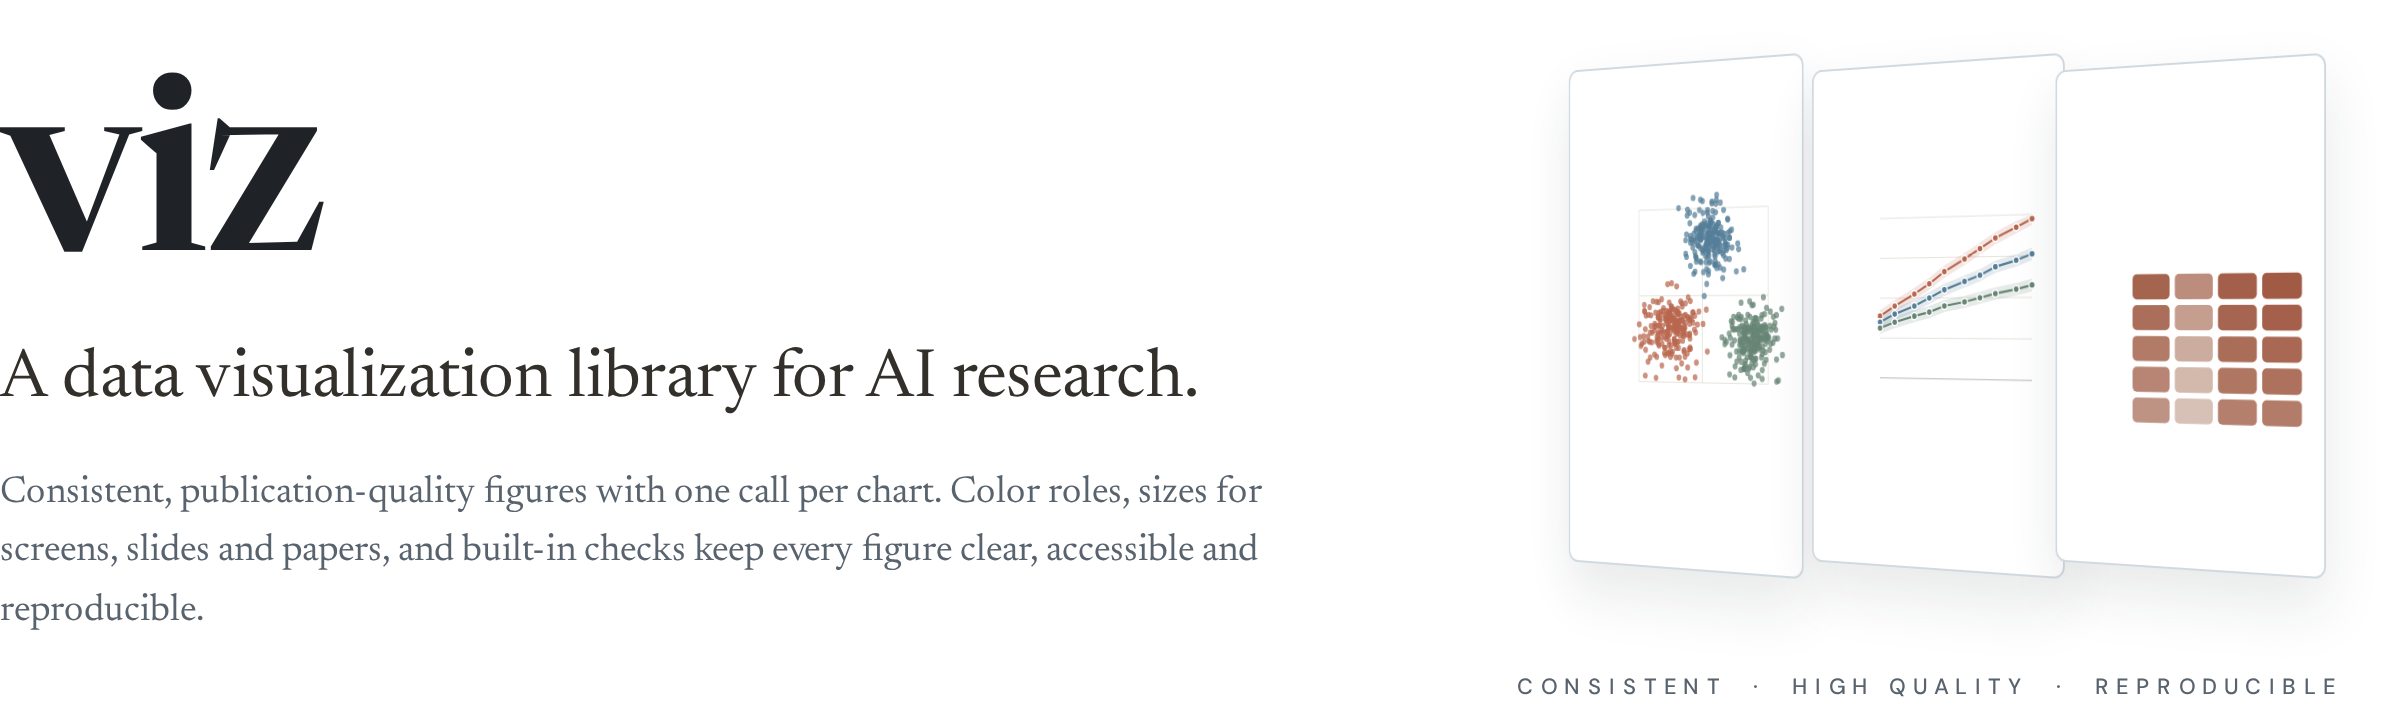
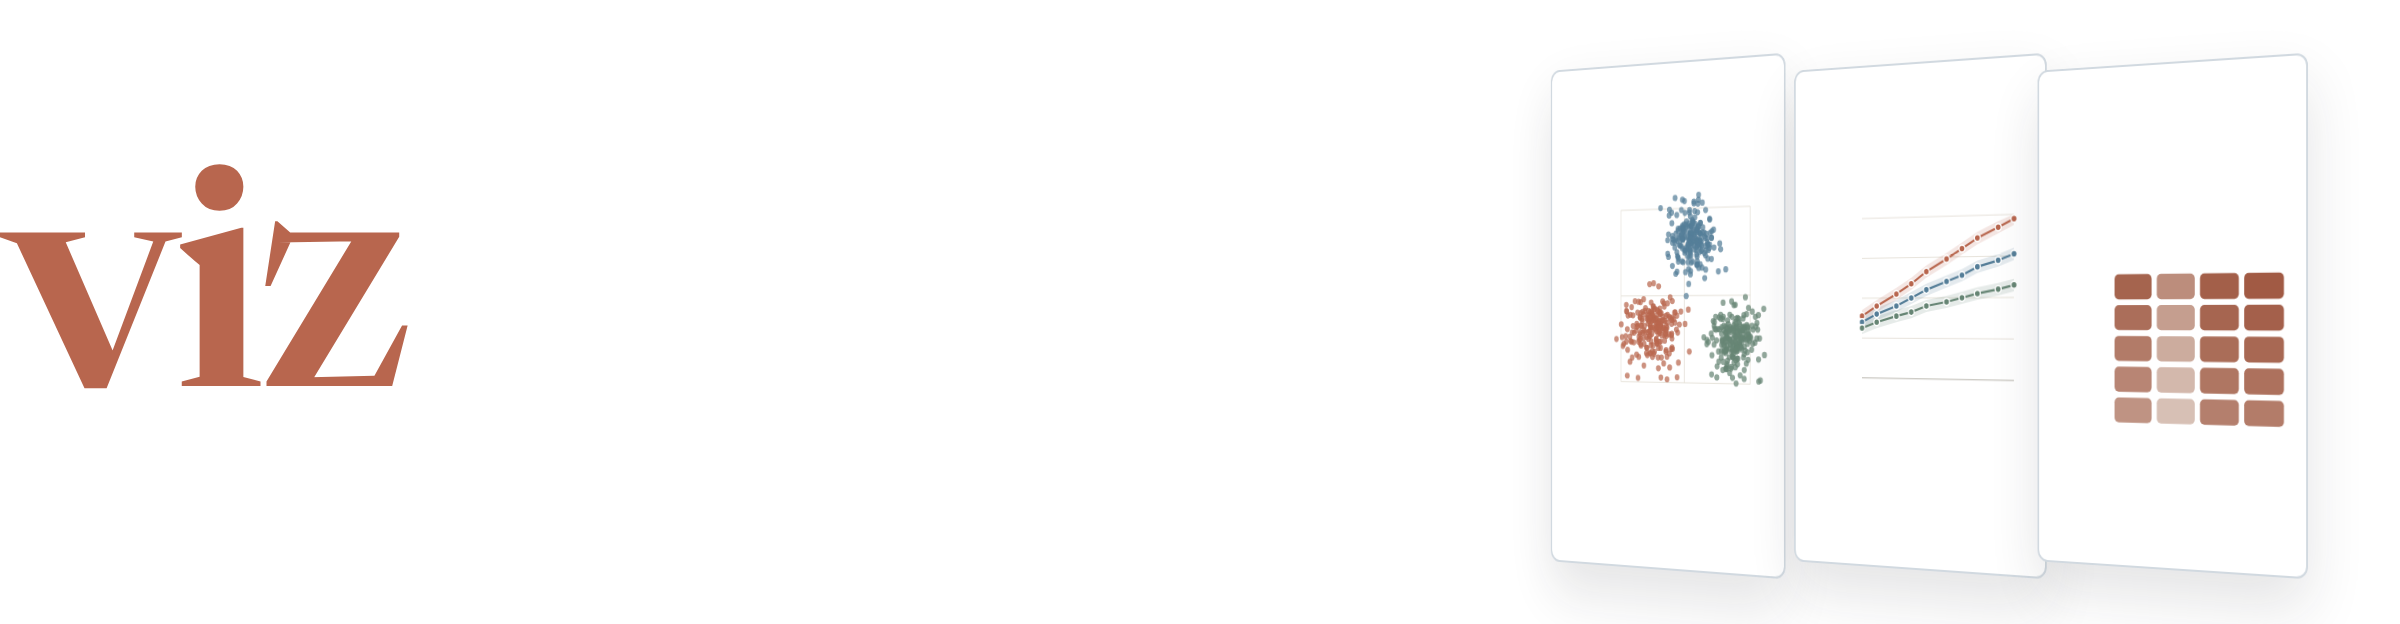
README header reads on light and dark pages without theme switching

diff --git a/docs/readme/build.py b/docs/readme/build.py
@@ -61,52 +61,31 @@ def examples(width: float, thumb: bool = False) -> dict[str, viz.Figure]:
 
 # ---------------------------------------------------------------------------------------------- page pieces
 
-# The figures stay white in both of GitHub's modes, on white cards; only the text, buttons and icons around them
-# change. Every image has a see-through background, and the ones with page text come in two copies: the README's
-# <picture> tags show the light copy on the white page and the copy in dark/ on the dark one (#0D1117). The colors
-# are GitHub's own text, border and button colors in each mode.
-THEMES = {
-    "light": {"ink": "#1F2328", "ink2": "#33302B", "muted": "#59636E", "shadow": "0 14px 30px rgba(31,35,40,.10)",
-              "primary": ("#1F2328", "#FFFFFF", "#1F2328"), "secondary": ("#F6F8FA", "#1F2328", "#D1D9E0")},
-    "dark": {"ink": "#F0F6FC", "ink2": "#D1D7E0", "muted": "#9198A1", "shadow": "0 14px 30px rgba(1,4,9,.55)",
-             "primary": ("#F0F6FC", "#0D1117", "#F0F6FC"), "secondary": ("#212830", "#F0F6FC", "#3D444D")},
-}
+# Every image here reads on GitHub's white page and on its dark one alike, so the README needs no theme switching
+# (GitHub does not always pick the copy that matches the page): the wordmark, the main button and the icons are orange,
+# which reaches about 4.3:1 on both, the other button and the figures' cards are white, and everything else is
+# see-through. The tagline and the description are the README's own text, so they always take the page's colors.
+ACCENT = viz.color("coral")
 CARD, BORDER, CARD_INK = "#FFFFFF", "#D1D9E0", "#1F2328"
 SERIF, SANS = "Newsreader, Georgia, serif", "'DM Sans', Helvetica, Arial, sans-serif"
 
 
-def hero(t: dict) -> str:
+def hero() -> str:
     thumbs = examples(260, thumb=True)
     order = ["Representation structure", "Scaling performance", "Cross-model comparison"]  # three, so none is cramped
     cards = "".join(f'<div class="card">{thumbs[k].svg(background=False)}</div>' for k in order)
     return f"""
 <style>
-.hero{{display:flex;align-items:center;justify-content:space-between;padding:8px 0 4px;color:{t["ink"]}}}
-.left{{width:650px}}
-.left h1{{font:600 120px/1 {SERIF};letter-spacing:-3px;margin:0 0 14px}}
-.left h2{{font:400 34px/1.15 {SERIF};margin:0 0 22px;color:{t["ink2"]};white-space:nowrap}}
-.left p{{font:400 19px/1.55 {SERIF};color:{t["muted"]};margin:0}}
-.right{{width:470px;display:flex;flex-direction:column;align-items:center}}
-.fan{{display:flex;perspective:1200px;height:300px;align-items:center;padding-left:30px}}
+.hero{{display:flex;align-items:center;justify-content:space-between;padding:8px 0 4px}}
+.mark{{font:600 150px/1 {SERIF};letter-spacing:-4px;color:{ACCENT};margin:0 0 0 2px}}
+.fan{{display:flex;perspective:1200px;height:300px;align-items:center;padding-left:30px;margin-right:40px}}
 .card{{width:150px;height:252px;background:{CARD};border:1px solid {BORDER};border-radius:6px;
-  box-shadow:{t["shadow"]};transform:rotateY(-34deg);margin-left:-26px;overflow:hidden;
+  box-shadow:0 14px 30px rgba(31,35,40,.12);transform:rotateY(-34deg);margin-left:-26px;overflow:hidden;
   display:flex;align-items:center;justify-content:center}}
 .card svg{{width:100%;height:auto}}
 .card svg text{{display:none}}
-.tags{{margin-top:30px;font:500 11px/1 {SANS};letter-spacing:.34em;color:{t["muted"]}}}
 </style>
-<div class="hero">
-  <div class="left">
-    <h1>viz</h1>
-    <h2>A data visualization library for AI research.</h2>
-    <p>Consistent, publication-quality figures with one call per chart. Color roles, sizes for screens, slides and
-    papers, and built-in checks keep every figure clear, accessible and reproducible.</p>
-  </div>
-  <div class="right">
-    <div class="fan">{cards}</div>
-    <div class="tags">CONSISTENT &nbsp;·&nbsp; HIGH QUALITY &nbsp;·&nbsp; REPRODUCIBLE</div>
-  </div>
-</div>"""
+<div class="hero"><div class="mark">viz</div><div class="fan">{cards}</div></div>"""
 
 
 ROW = ["Scaling performance", "Human evaluations", "Representation structure"]  # three, so none is cramped
@@ -126,8 +105,7 @@ def row() -> str:
 <div class="row">{cards}</div>"""
 
 
-def button(label: str, colors: tuple[str, str, str]) -> str:
-    bg, fg, border = colors
+def button(label: str, bg: str, fg: str, border: str) -> str:
     return (f'<div style="display:inline-block;padding:1px">'
             f'<div style="display:inline-block;background:{bg};color:{fg};border:1px solid {border};border-radius:8px;'
             f'padding:12px 24px;font:600 16px/1 {SANS}">{label}</div></div>')
@@ -142,21 +120,21 @@ ICONS = {  # 24 x 24 line icons, drawn here so the README needs no icon font
 
 
 def main() -> None:
-    render_html(row(), OUT / "examples.png", 1200, transparent=True)  # white cards only: one copy serves both modes
-    for theme, t in THEMES.items():
-        out = OUT if theme == "light" else OUT / "dark"  # the dark copy: the same file in dark/
-        out.mkdir(exist_ok=True)
-        render_html(hero(t), out / "hero.png", 1200, transparent=True)
-        render_html(button("Get started &nbsp;→", t["primary"]), out / "get-started.png", 400, fit=True,
-                    transparent=True)
-        render_html(button("View examples", t["secondary"]), out / "view-examples.png", 400, fit=True,
-                    transparent=True)
-        for name, paths in ICONS.items():
-            (out / f"icon-{name}.svg").write_text(
-                f'<svg xmlns="http://www.w3.org/2000/svg" width="28" height="28" viewBox="0 0 24 24" fill="none" '
-                f'stroke="{t["ink"]}" stroke-width="1.4" stroke-linecap="round" stroke-linejoin="round">{paths}</svg>\n')
-    for p in sorted(OUT.glob("**/*.png")):
+    from viz.theme import strong_fill
+    deep = strong_fill("coral")  # the orange deep enough for white text
+    render_html(hero(), OUT / "hero.png", 1200, transparent=True)
+    render_html(row(), OUT / "examples.png", 1200, transparent=True)
+    render_html(button("Get started &nbsp;→", deep, "#FFFFFF", deep), OUT / "get-started.png", 400, fit=True,
+                transparent=True)
+    render_html(button("View examples", CARD, CARD_INK, BORDER), OUT / "view-examples.png", 400, fit=True,
+                transparent=True)
+    for name, paths in ICONS.items():
+        (OUT / f"icon-{name}.svg").write_text(
+            f'<svg xmlns="http://www.w3.org/2000/svg" width="28" height="28" viewBox="0 0 24 24" fill="none" '
+            f'stroke="{ACCENT}" stroke-width="1.6" stroke-linecap="round" stroke-linejoin="round">{paths}</svg>\n')
+    for p in sorted(OUT.glob("*.png")):
         print(p)
+
 
 if __name__ == "__main__":
     main()

diff --git a/README.md b/README.md
@@ -1,9 +1,10 @@
-<picture>
-  <source media="(prefers-color-scheme: dark)" srcset="docs/readme/dark/hero.png">
-  <img src="docs/readme/hero.png" alt="viz: a data visualization library for AI research. Consistent, publication-quality figures with one call per chart." width="100%">
-</picture>
+<img src="docs/readme/hero.png" alt="viz" width="100%">
 
-<a href="#quick-start"><picture><source media="(prefers-color-scheme: dark)" srcset="docs/readme/dark/get-started.png"><img src="docs/readme/get-started.png" alt="Get started" height="42"></picture></a>&nbsp;&nbsp;<a href="examples/README.md"><picture><source media="(prefers-color-scheme: dark)" srcset="docs/readme/dark/view-examples.png"><img src="docs/readme/view-examples.png" alt="View examples" height="42"></picture></a>
+**A data visualization library for AI research.** Consistent, publication-quality figures with one call per chart.
+Color roles, sizes for screens, slides and papers, and built-in checks keep every figure clear, accessible and
+reproducible.
+
+<a href="#quick-start"><img src="docs/readme/get-started.png" alt="Get started" height="42"></a>&nbsp;&nbsp;<a href="examples/README.md"><img src="docs/readme/view-examples.png" alt="View examples" height="42"></a>
 
 <img src="docs/readme/examples.png" alt="Three example figures: accuracy against compute for three model sizes on a log axis; win rates for helpful, harmless and honest with intervals; three clusters of points on two principal components." width="100%">
 
@@ -11,10 +12,10 @@
 
 <table>
 <tr>
-<td width="25%" valign="top"><picture><source media="(prefers-color-scheme: dark)" srcset="docs/readme/dark/icon-consistent.svg"><img src="docs/readme/icon-consistent.svg" alt="" width="28"></picture><br><br><b>Consistent</b><br>One visual language across a write-up: color roles, sizes and type that stay the same from figure to figure.</td>
-<td width="25%" valign="top"><picture><source media="(prefers-color-scheme: dark)" srcset="docs/readme/dark/icon-quality.svg"><img src="docs/readme/icon-quality.svg" alt="" width="28"></picture><br><br><b>High quality</b><br>Publication-ready by default: PDFs at the printed size, accessible color and text, and alt text on every figure.</td>
-<td width="25%" valign="top"><picture><source media="(prefers-color-scheme: dark)" srcset="docs/readme/dark/icon-research.svg"><img src="docs/readme/icon-research.svg" alt="" width="28"></picture><br><br><b>Research-focused</b><br>The charts research needs: every run as a dot, effects with intervals, training curves and transcripts.</td>
-<td width="25%" valign="top"><picture><source media="(prefers-color-scheme: dark)" srcset="docs/readme/dark/icon-productive.svg"><img src="docs/readme/icon-productive.svg" alt="" width="28"></picture><br><br><b>Productive</b><br>One call per chart, a gallery to copy, and checks that flag problems before anyone reads the figure.</td>
+<td width="25%" valign="top"><img src="docs/readme/icon-consistent.svg" alt="" width="28"><br><br><b>Consistent</b><br>One visual language across a write-up: color roles, sizes and type that stay the same from figure to figure.</td>
+<td width="25%" valign="top"><img src="docs/readme/icon-quality.svg" alt="" width="28"><br><br><b>High quality</b><br>Publication-ready by default: PDFs at the printed size, accessible color and text, and alt text on every figure.</td>
+<td width="25%" valign="top"><img src="docs/readme/icon-research.svg" alt="" width="28"><br><br><b>Research-focused</b><br>The charts research needs: every run as a dot, effects with intervals, training curves and transcripts.</td>
+<td width="25%" valign="top"><img src="docs/readme/icon-productive.svg" alt="" width="28"><br><br><b>Productive</b><br>One call per chart, a gallery to copy, and checks that flag problems before anyone reads the figure.</td>
 </tr>
 </table>
 
